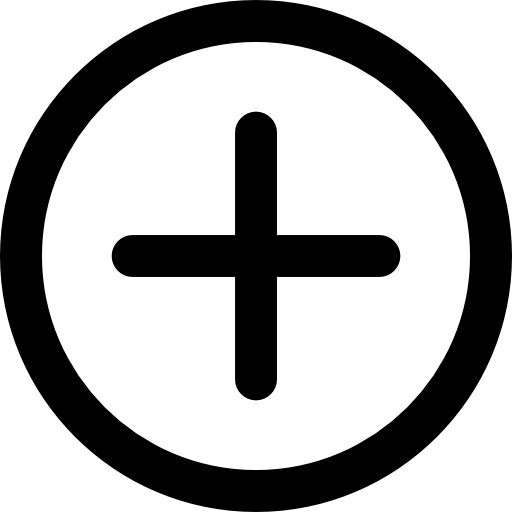
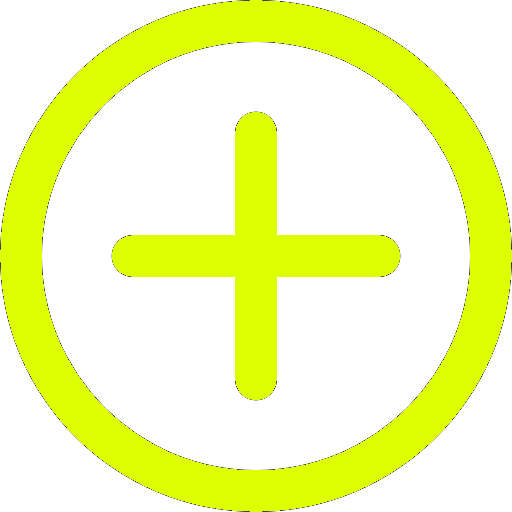
page acceuil

diff --git a/src/components/layouts/Accueil/Accueil.module.scss b/src/components/layouts/Accueil/Accueil.module.scss
@@ -30,15 +30,26 @@
         padding: 50px;
         background-color: #000000;
         border-radius: 50px;
-        font-size: large;
         color: #ddff00;
-        font-family: cursive;
-        border: #ddff00;
         border: solid;
-        
+        background-image: url("/images/plus.png");
+        background-repeat: no-repeat;
+        background-position: center;
+        background-size: 50% 35%;
     }
     .text{
         margin-left: 80px;
         margin-top: 200px;
+    }
+    .text2{
+        font-weight: bolder;
+        color: #ddff00;
+        text-align: center;
+        font-family: cursive;
+        position: absolute;
+        bottom: 20%;
+        margin-left: -1%;
+    
+    
     }
 }

diff --git a/src/components/layouts/Accueil/Accueil.js b/src/components/layouts/Accueil/Accueil.js
@@ -1,7 +1,6 @@
 import React, {useState} from "react";
 import styles from "./Accueil.module.scss"
 import Creernote from '../Creernote/Creernote';
-import Note from '../Note/Note';
 
 const Accueil = () => {
 	const [note, setnote] = useState(false);
@@ -11,7 +10,9 @@ const Accueil = () => {
 				<h1 className={styles.text}>Bonjour</h1>
 				<div className={styles.wrapper}>
 					<h1>NOTES</h1>
-					<input className={styles.btnnote} type={'button'} onClick={() => setnote(true)} value={'Creer une note'}/>
+					<div className={styles.btnnote} onClick={() => setnote(true)}>
+						<h1 className={styles.text2} > Créer une note </h1>
+						</div>
 				</div>
 					{note && <Creernote/>}
 				</div>

diff --git a/src/components/layouts/Creernote/Creernote.module.scss b/src/components/layouts/Creernote/Creernote.module.scss
@@ -9,8 +9,9 @@
     background-color: rgba(129, 92, 92, 0.44);
     border-radius: 50px;
     position: absolute;
-    top: 27%;
+    top: 35%;
     left: 40%;
+    align-items: center;
     display: inline-block;
     
     
